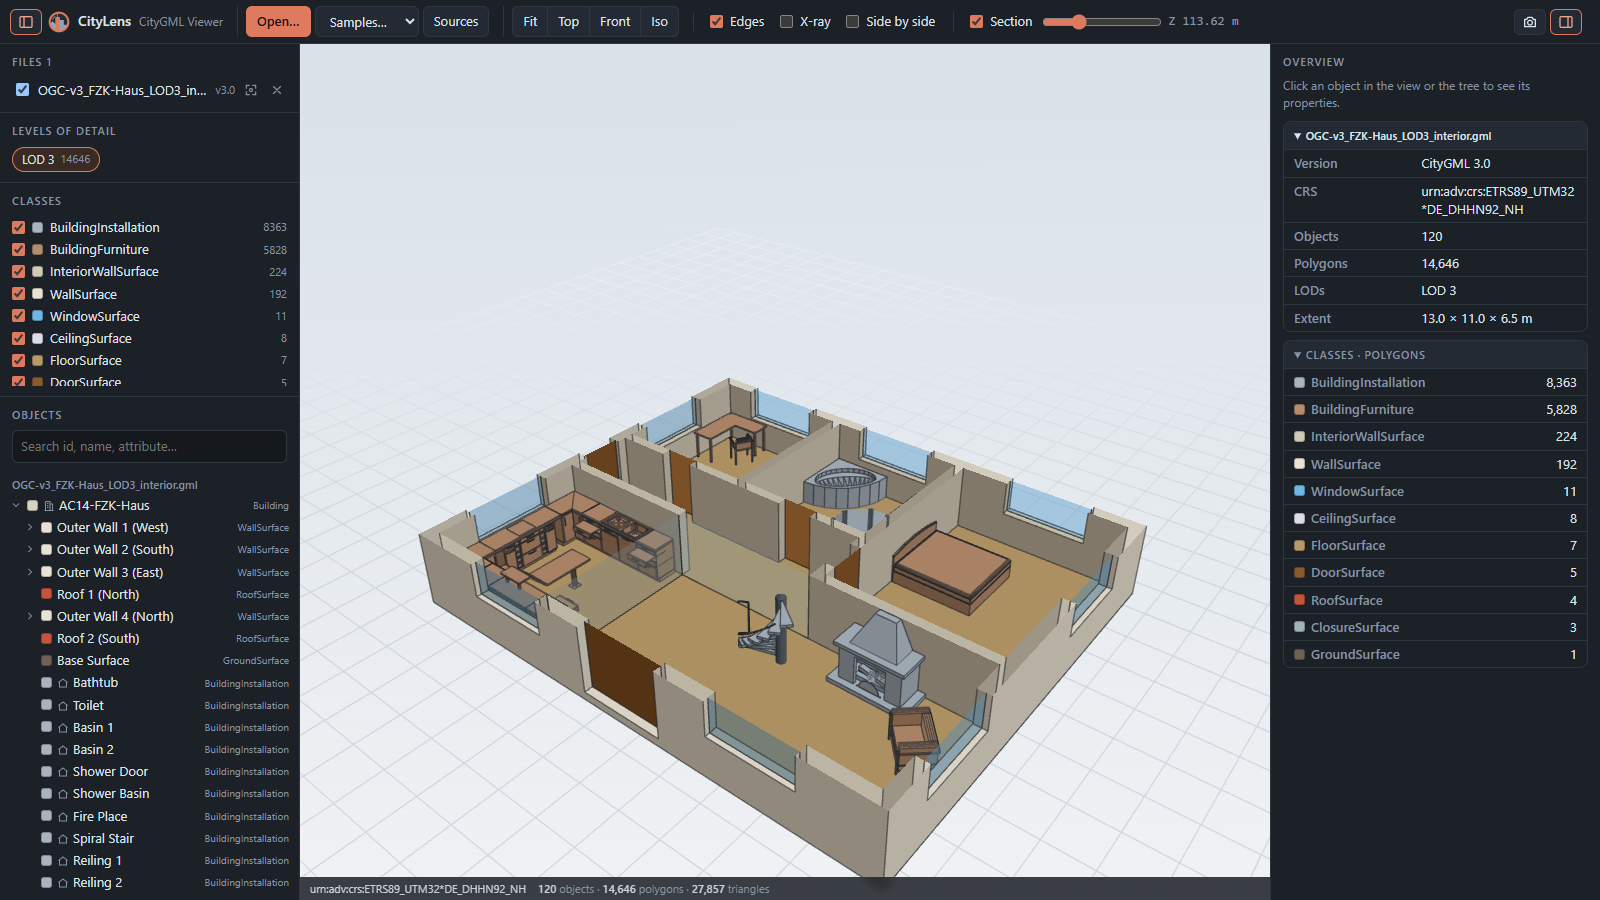
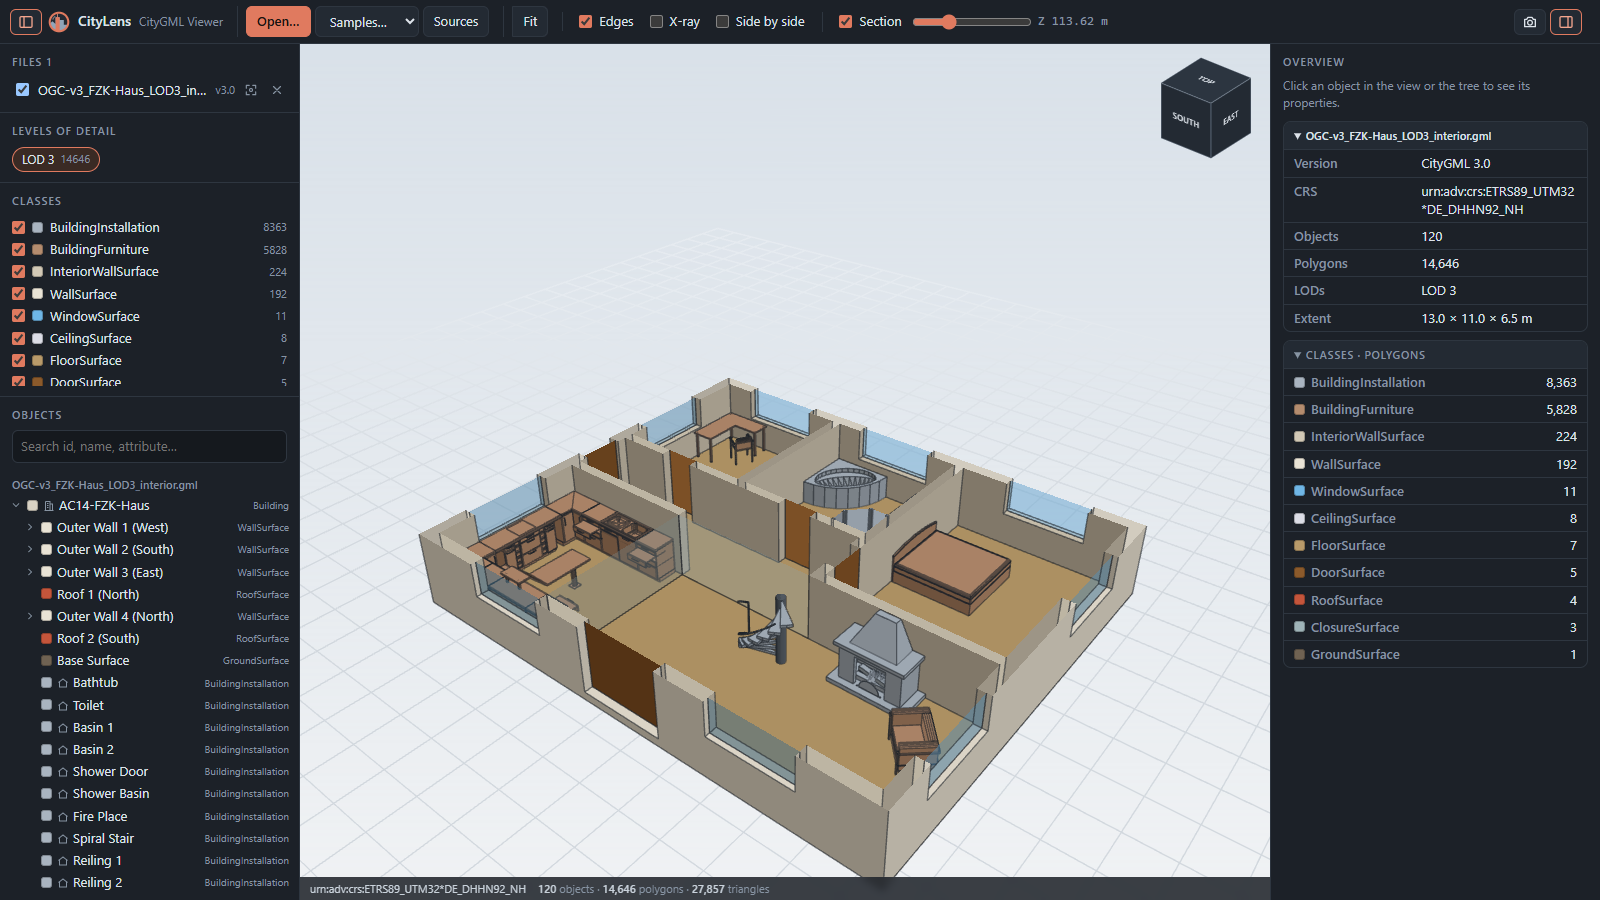
Add a navigation cube and drop the Top/Front/Iso buttons
src/navcube.js draws a CSS 3D cube in the viewport corner that follows
the camera. Faces are named by compass direction (CityGML Y is north)
and split into a 3x3 grid: the middle looks at that face, an edge
gives the 45-degree view between two faces and a corner the isometric
view between three. Clicks call the new Viewer.viewFrom(), which
swings the camera around the orbit target with an eased animation,
keeping the distance and north up for straight top/bottom views.

The cube covers the Top/Front/Iso toolbar buttons, so they are
removed; Fit and the Home key stay. README and its screenshot are
updated.

Changed region(s): [[0.3438, 0.0, 0.75, 0.0311], [0.7188, 0.0622, 0.7812, 0.1867]]

diff --git a/src/navcube.js b/src/navcube.js
@@ -1,0 +1,71 @@
+// View cube in the viewport corner: a CSS 3D cube that turns with the camera. Each face is a 3×3 grid of hit
+// areas, so the middle looks straight at that face, an edge looks along the 45° between two faces and a corner
+// gives the isometric view between three. World axes: X east, Y north, Z up.
+import * as THREE from 'three';
+
+const SIZE = 64; // px, edge length of the cube
+
+// n: outward normal; u / w: the label's right and up directions on that face (n = u × w).
+const FACES = [
+  { label: 'Top', n: [0, 0, 1], u: [1, 0, 0], w: [0, 1, 0] },
+  { label: 'Bottom', n: [0, 0, -1], u: [-1, 0, 0], w: [0, 1, 0] },
+  { label: 'South', n: [0, -1, 0], u: [1, 0, 0], w: [0, 0, 1] },
+  { label: 'North', n: [0, 1, 0], u: [-1, 0, 0], w: [0, 0, 1] },
+  { label: 'East', n: [1, 0, 0], u: [0, 1, 0], w: [0, 0, 1] },
+  { label: 'West', n: [-1, 0, 0], u: [0, -1, 0], w: [0, 0, 1] },
+];
+
+const add = (...vs) => vs.reduce((a, v) => a.map((x, i) => x + v[i]));
+const scale = (v, k) => v.map((x) => x * k);
+
+function describe([x, y, z]) {
+  return [z > 0 && 'top', z < 0 && 'bottom', y > 0 && 'north', y < 0 && 'south', x > 0 && 'east', x < 0 && 'west']
+    .filter(Boolean).join(' ');
+}
+
+export function createNavCube(viewer, parent) {
+  const root = document.createElement('div');
+  root.className = 'navcube';
+  const cube = document.createElement('div');
+  cube.className = 'navcube-cube';
+  root.append(cube);
+
+  for (const f of FACES) {
+    const face = document.createElement('div');
+    face.className = `navcube-face face-${f.label.toLowerCase()}`;
+    // Columns are u, -w (CSS y points down) and n, moved out by half the edge. With the reflection in the cube's
+    // own transform (see update) the label reads the right way round from outside.
+    const v = scale(f.w, -1);
+    const t = scale(f.n, SIZE / 2);
+    face.style.transform = `matrix3d(${[...f.u, 0, ...v, 0, ...f.n, 0, ...t, 1].join(',')})`;
+    for (let row = 0; row < 3; row++) {
+      for (let col = 0; col < 3; col++) {
+        const dir = add(f.n, scale(f.u, col - 1), scale(f.w, 1 - row));
+        const name = `View from ${describe(dir)}`;
+        const cell = document.createElement('button');
+        cell.className = 'navcube-cell';
+        cell.title = name;
+        cell.setAttribute('aria-label', name);
+        cell.onclick = () => viewer.viewFrom(new THREE.Vector3(...dir));
+        face.append(cell);
+      }
+    }
+    const label = document.createElement('span');
+    label.className = 'navcube-label';
+    label.textContent = f.label;
+    face.append(label);
+    cube.append(face);
+  }
+  parent.append(root);
+
+  // CSS space is world space seen by the camera with Y flipped (screen y points down).
+  const m = new THREE.Matrix4();
+  const update = () => {
+    const e = m.extractRotation(viewer.camera.matrixWorldInverse).elements.slice();
+    e[1] = -e[1]; e[5] = -e[5]; e[9] = -e[9];
+    cube.style.transform = `matrix3d(${e.join(',')})`;
+  };
+  viewer.onRender = update;
+  update();
+  return root;
+}

diff --git a/src/viewer.js b/src/viewer.js
@@ -76,10 +76,12 @@ export class Viewer {
     this.resize();
     const loop = () => {
       requestAnimationFrame(loop);
+      if (this._viewAnim) this._viewAnim(performance.now());
       if (this.controls.update() || this._needsRender) {
         this._needsRender = false;
         this.updateFog();
         this.renderer.render(this.scene, this.camera);
+        this.onRender?.();
       }
     };
     loop();
@@ -311,6 +313,28 @@ export class Viewer {
     const c = box.getCenter(new THREE.Vector3());
     this.grid.position.set(c.x, c.y, box.min.z - 0.02);
     this.scene.add(this.grid);
+    this.requestRender();
+  }
+
+  /** Swings the camera around the orbit target to look from `dir` (world space), keeping the distance. */
+  viewFrom(dir, duration = 350) {
+    const target = this.controls.target;
+    const offset = this.camera.position.clone().sub(target);
+    const dist = offset.length();
+    const from = offset.normalize();
+    const to = dir.clone().normalize();
+    // Straight up/down is degenerate for a Z-up orbit; nudge it so north stays at the top of the screen.
+    if (Math.abs(to.z) > 0.9999) to.set(0, -1e-4 * Math.sign(to.z), Math.sign(to.z)).normalize();
+    const turn = new THREE.Quaternion().setFromUnitVectors(from, to);
+    const start = performance.now();
+    this._viewAnim = (now) => {
+      const t = Math.min(1, (now - start) / duration);
+      const k = t < 0.5 ? 2 * t * t : 1 - (-2 * t + 2) ** 2 / 2; // ease in-out
+      const q = new THREE.Quaternion().slerpQuaternions(new THREE.Quaternion(), turn, k);
+      this.camera.position.copy(target).addScaledVector(from.clone().applyQuaternion(q), dist);
+      this.requestRender();
+      if (t >= 1) this._viewAnim = null;
+    };
     this.requestRender();
   }
 

diff --git a/src/styles.css b/src/styles.css
@@ -278,6 +278,31 @@ body.no-files .needs-files { display: none; }
 .sb-coord { font-family: var(--mono); color: #f2b8ff; font-variant-numeric: tabular-nums; }
 .sb-coord .k { color: var(--muted); margin: 0 4px 0 10px; }
 .sb-coord .k:first-child { margin-left: 0; }
+/* view cube (src/navcube.js); no filter or opacity here, they would flatten the 3D transforms */
+.navcube { position: absolute; top: 14px; right: 14px; width: 100px; height: 100px; z-index: 3; pointer-events: none; }
+.navcube-cube { position: absolute; left: 50%; top: 50%; transform-style: preserve-3d; }
+.navcube-face {
+  position: absolute;
+  left: -32px; top: -32px; width: 64px; height: 64px;
+  display: grid;
+  grid-template: 22% 56% 22% / 22% 56% 22%;
+  background: #232a33;
+  border: 1px solid #46515e;
+  backface-visibility: hidden;
+  pointer-events: auto;
+}
+.navcube-face.face-top { background: #2c3540; }
+.navcube-face.face-bottom { background: #1c2128; }
+.navcube-cell { all: unset; cursor: pointer; }
+.navcube-cell:hover { background: rgba(224, 122, 95, 0.7); }
+.navcube-label {
+  position: absolute; inset: 0;
+  display: grid; place-items: center;
+  font-size: 9.5px; font-weight: 600; letter-spacing: 0.06em; text-transform: uppercase;
+  color: #dde3ea;
+  pointer-events: none;
+}
+body.no-files .navcube { display: none; }
 /* Sized by the viewport, not the window, since the side panels take a varying share. */
 @container (max-width: 900px) { .sb-tris { display: none; } }
 

diff --git a/src/main.js b/src/main.js
@@ -3,6 +3,7 @@ import { parseCityGML } from './parser.js';
 import { styleFor, LOD_LABELS } from './colors.js';
 import { renderMarkdown } from './markdown.js';
 import { icon, fillIcons } from './icons.js';
+import { createNavCube } from './navcube.js';
 import sourcesMd from '/samples/SOURCES.md?raw';
 import apacheLicenseUrl from '/samples/LICENSE-Apache-2.0.txt?url';
 
@@ -27,6 +28,7 @@ function h(tag, attrs = {}, ...children) {
 fillIcons();
 
 const viewer = new Viewer($('viewport'));
+createNavCube(viewer, $('viewport'));
 
 const state = {
   models: [],
@@ -844,9 +846,6 @@ narrowQuery.addEventListener('change', syncPanelButtons);
 syncPanelButtons();
 
 $('btn-fit').onclick =() => viewer.fitTo(viewer.visibleBox());
-$('btn-top').onclick = () => viewer.fitTo(viewer.visibleBox(), 'top');
-$('btn-front').onclick = () => viewer.fitTo(viewer.visibleBox(), 'front');
-$('btn-iso').onclick = () => viewer.fitTo(viewer.visibleBox(), 'iso');
 $('chk-edges').onchange = (e) => viewer.setEdges(e.target.checked);
 $('chk-xray').onchange = (e) => { viewer.setXray(e.target.checked); highlightSelection(false); };
 $('storey-up').onclick = () => stepStorey(1);

diff --git a/index.html b/index.html
@@ -37,9 +37,6 @@
     </div>
     <div class="tool-group seg" role="group" aria-label="View">
       <button class="btn" id="btn-fit" title="Fit all (Home)">Fit</button>
-      <button class="btn" id="btn-top" title="Top view">Top</button>
-      <button class="btn" id="btn-front" title="Front view">Front</button>
-      <button class="btn" id="btn-iso" title="Isometric view">Iso</button>
     </div>
     <div class="tool-group">
       <label class="toggle"><input type="checkbox" id="chk-edges" checked /> Edges</label>

diff --git a/README.md b/README.md
@@ -24,7 +24,9 @@ npm run build    # static site in dist/
 - **Storey filter**: one floor at a time, from storey CityObjectGroups (MAKS `Kat`, or any group with a
   `storeyNumber`) or CityGML 3.0 `Storey` objects. Each file is clipped to its own storey's height band;
   picking a storey switches to LOD 4 and hides ceilings, and "All" restores the previous LODs and ceilings
-- Horizontal **section** plane for interiors (LOD4), **X-ray**, edges, Top/Front/Iso views, PNG screenshot
+- **View cube**: click a face for that side, an edge for the 45° view between two sides, a corner for the
+  isometric view (faces are named by compass direction: CityGML Y is north)
+- Horizontal **section** plane for interiors (LOD4), **X-ray**, edges, PNG screenshot
 - **Side by side** layout for files that are far apart or in different CRSs
 
 Shortcuts: `F` zoom to selection · `Esc` clear · `Home` fit · `X` X-ray · `E` edges · `PageUp`/`PageDown` storey up/down
@@ -43,6 +45,7 @@ Shortcuts: `F` zoom to selection · `Esc` clear · `Home` fit · `X` X-ray · `E
 - `src/viewer.js` – Three.js scene, materials, picking, highlighting, clipping
 - `src/main.js` – UI: panels, tree, properties, loading
 - `src/colors.js` – semantic colour scheme
+- `src/navcube.js` – CSS 3D view cube that follows the camera
 - `src/icons.js` – inline SVG icon set
 
 ## License
